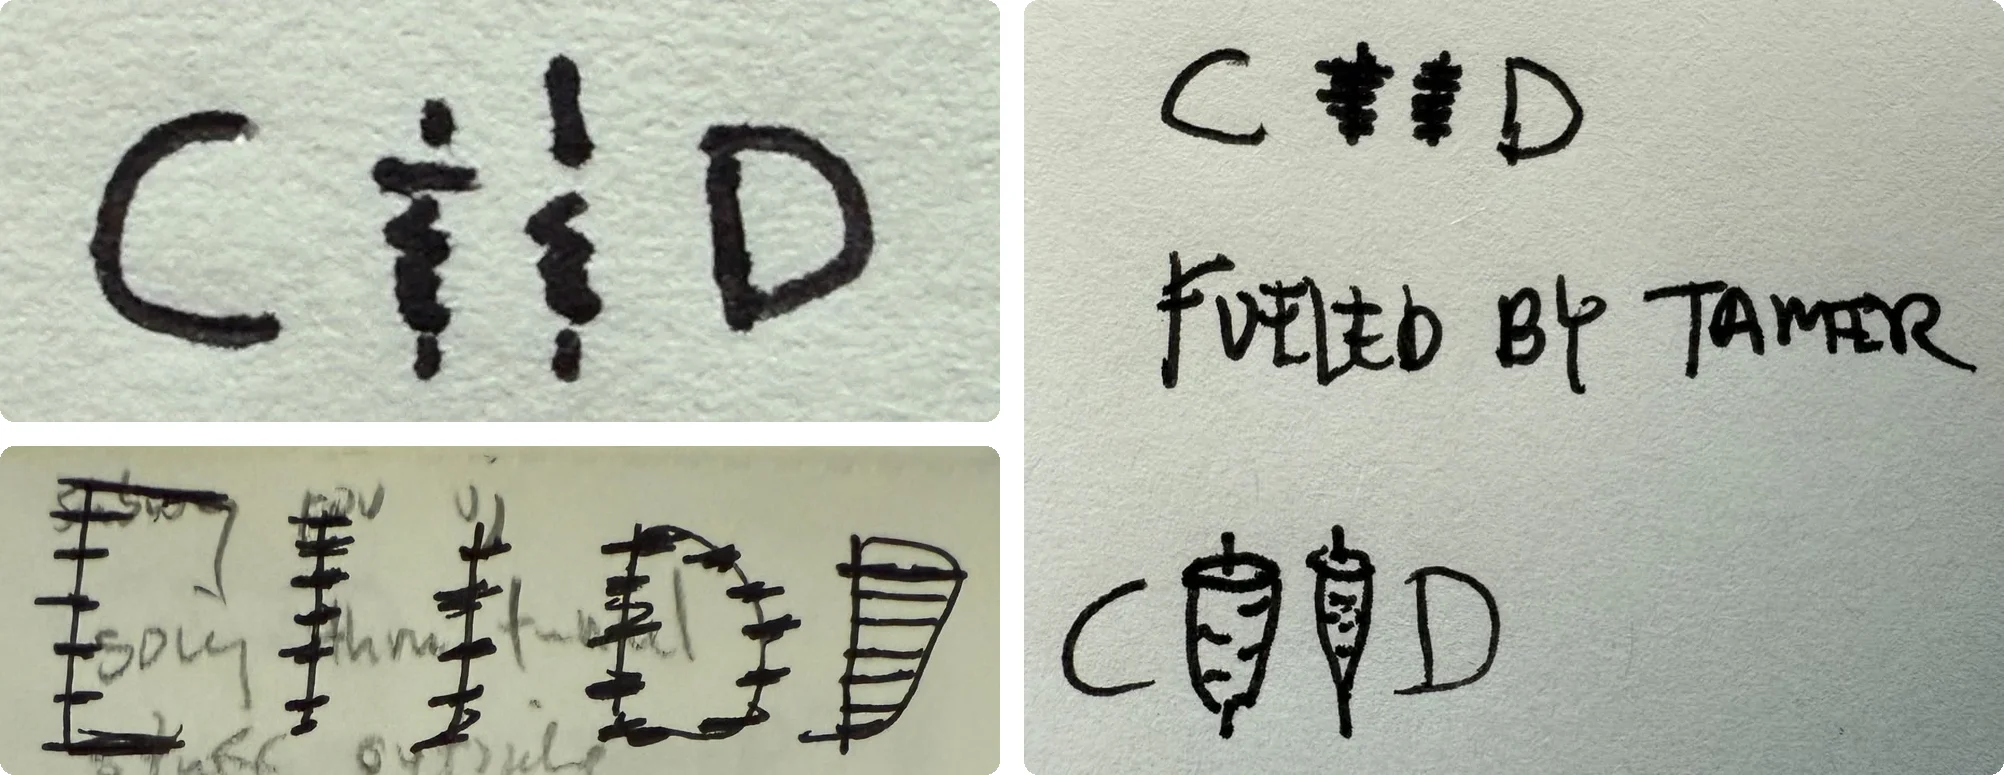
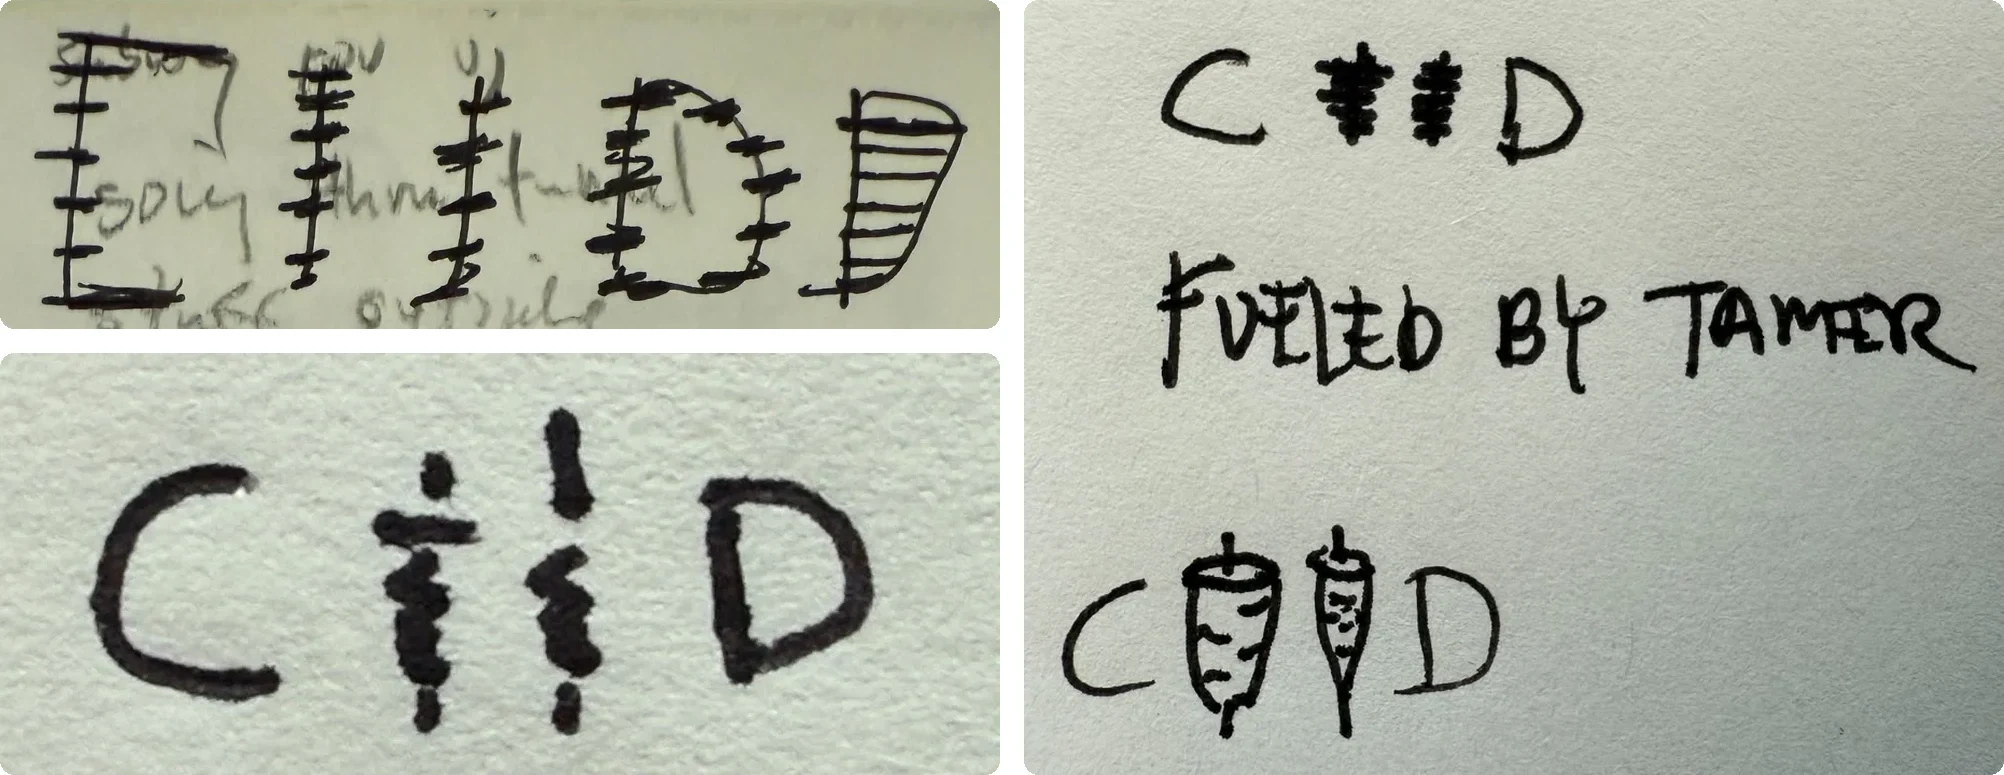
Tamer: stitches first, then spits; remove duplicate final shirt
Claude-Session: https://claude.ai/code/session_01JdiqnAgj9LWHKqoaC1ZKdY

diff --git a/src/content/experiments/tamer-kebap.md b/src/content/experiments/tamer-kebap.md
@@ -23,7 +23,7 @@ When I left in fall 2025, I missed it more than I expected. I wanted to leave th
 
 The idea showed up the next summer, in New York, while I was mending a pair of shorts. I started wondering what the alphabet would look like if I made it with a sewing machine, and began sketching letters out of stitches. When I got to CIID, the stitches running through the two I's made them look like kebab spits. That was it.
 
-<figure class="wide"><img src="/experiments/tamer-kebap-assets/stitches-to-spits.webp" alt="Three sketches: the hand-drawn CIID mark with the I's as kebab spits; CIID in a sketchbook with stitches running through every letter; and a page reading CIID, Fueled by Tamer, then CIID again with döner spits for the I's"/><figcaption>From stitches to spits.</figcaption></figure>
+<figure class="wide"><img src="/experiments/tamer-kebap-assets/stitches-to-spits.webp" alt="Three sketches: CIID in a sketchbook with stitches running through every letter; the hand-drawn CIID mark with the I's as kebab spits; and a page reading CIID, Fueled by Tamer, then CIID again with döner spits for the I's"/><figcaption>From stitches to spits.</figcaption></figure>
 
 ## Build, test, rep<span class="eat">eat</span>
 
@@ -34,8 +34,6 @@ I tried six layouts, mixing "Tamer Kebab Eating Club," "Fueled by Kebab," and bu
   <div class="c-pick"><img src="/experiments/tamer-kebap-assets/shirts-3x2.webp" alt="Concept 6, the pick: Tamer Kebab Eating Club in blue on the front; the CIID kebab mark and build.test.repeat, with eat in blue, on the back"/><span>6. the one</span></div>
   <figcaption>Six concepts, front and back. Concept 6 made the shirt.</figcaption>
 </figure>
-
-<figure class="frame"><img src="/experiments/tamer-kebap-assets/shirts-3x2.webp" alt="The final shirt, front and back: Tamer Kebap Eating Club on the front, the CIID kebab mark and build.test.repeat on the back"/><figcaption>Concept 6, the final shirt.</figcaption></figure>
 
 My classmates liked it enough to ask for their own. I'm planning to give one to the crew at Tamer, and maybe bring a stack to our reunion in 2027.
 
